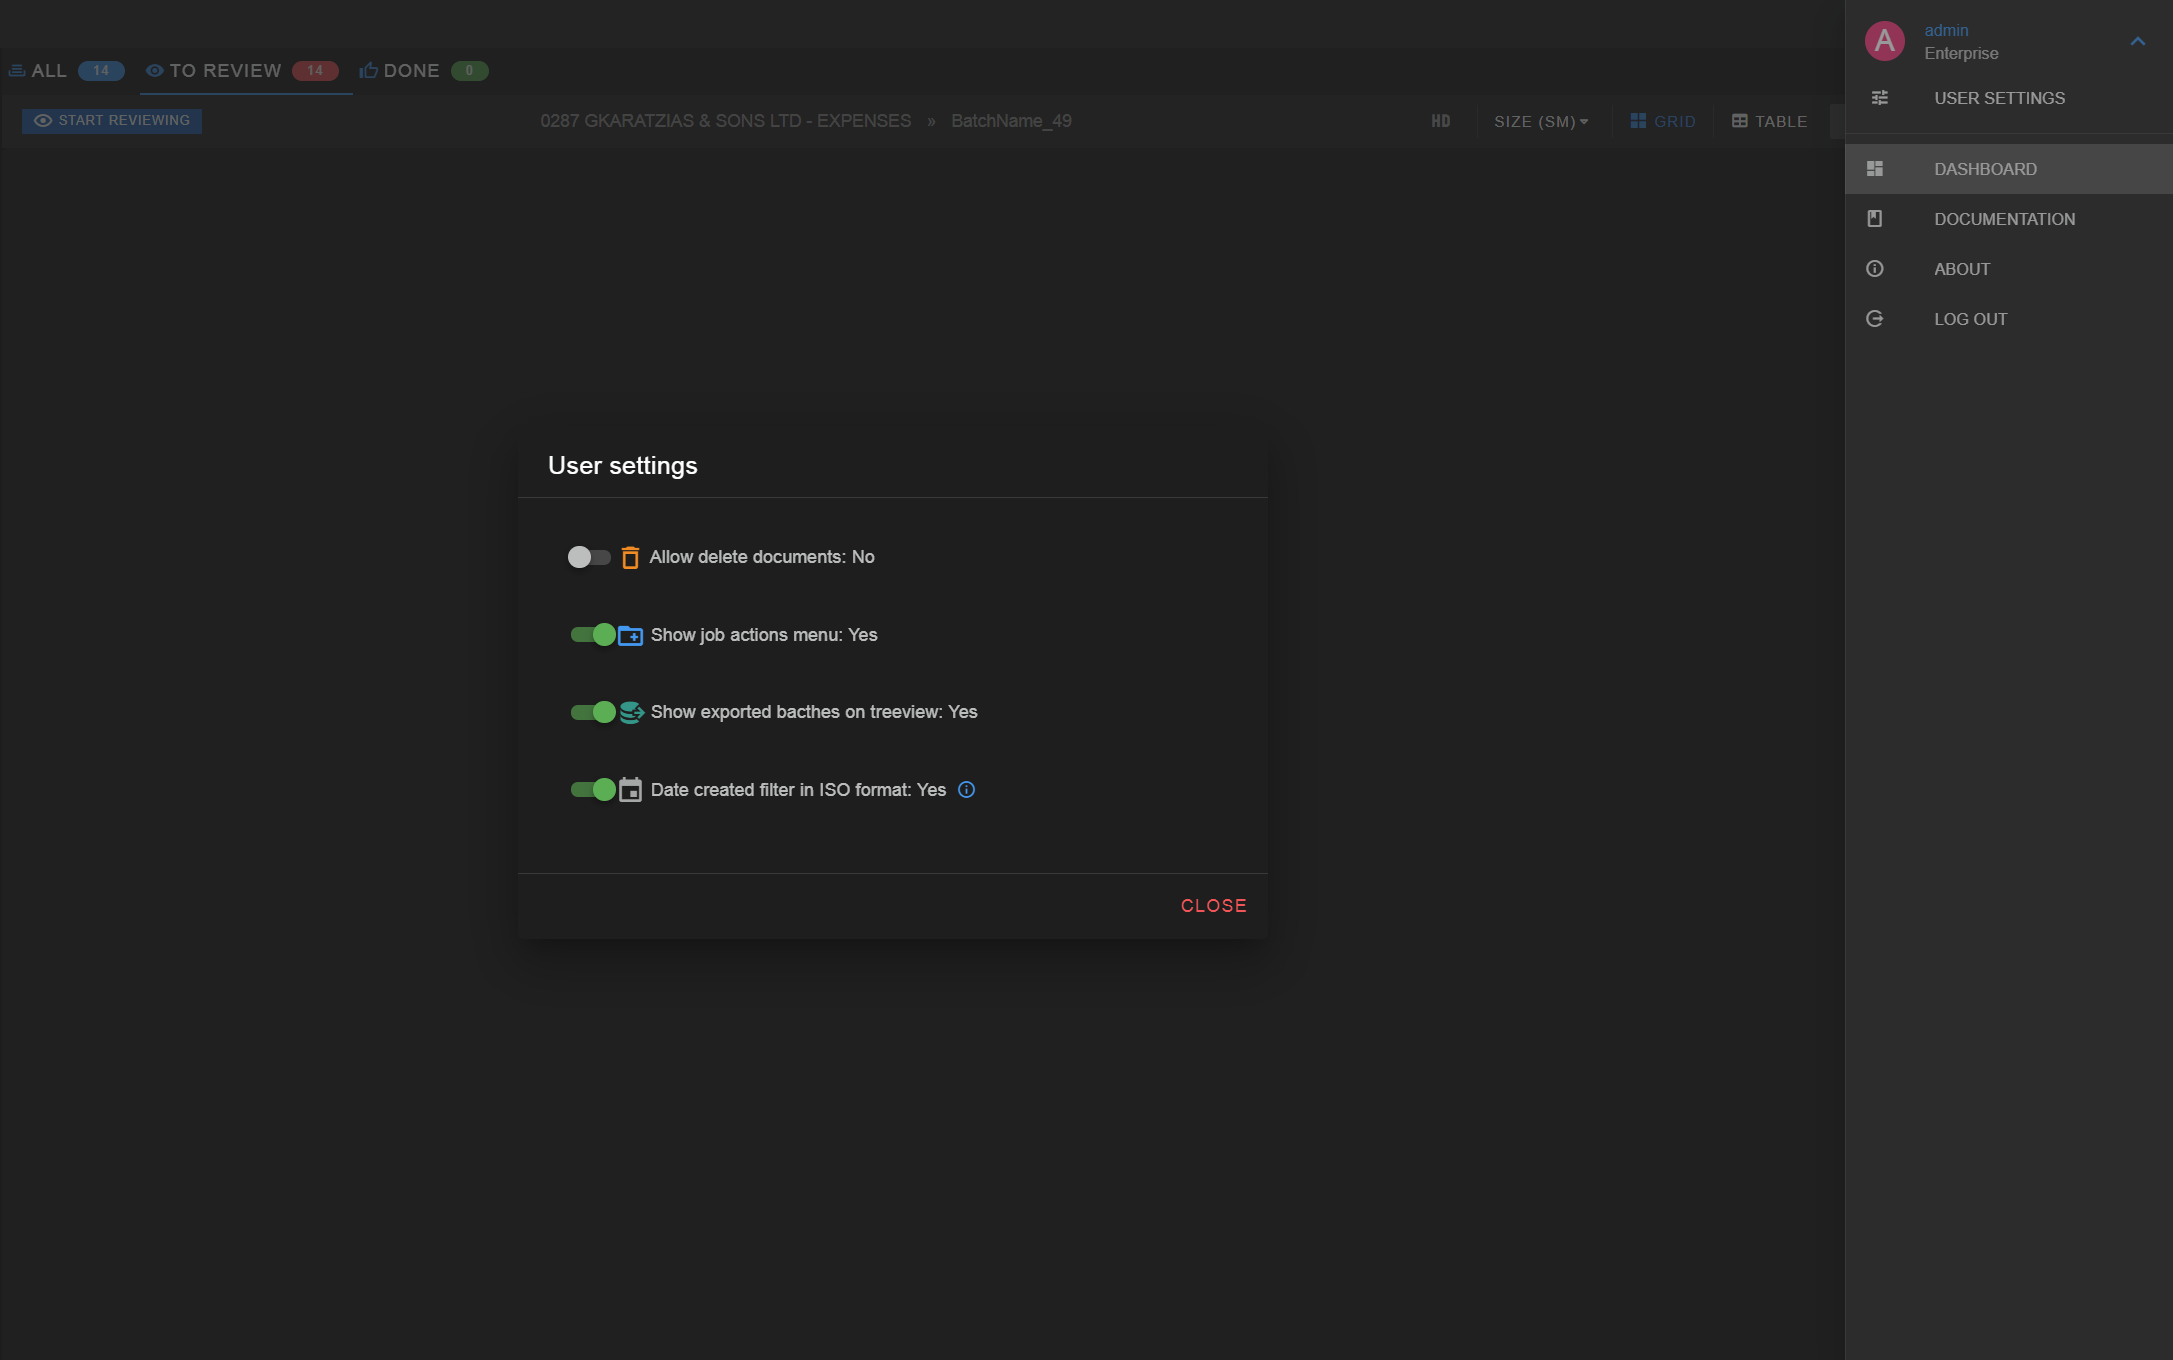
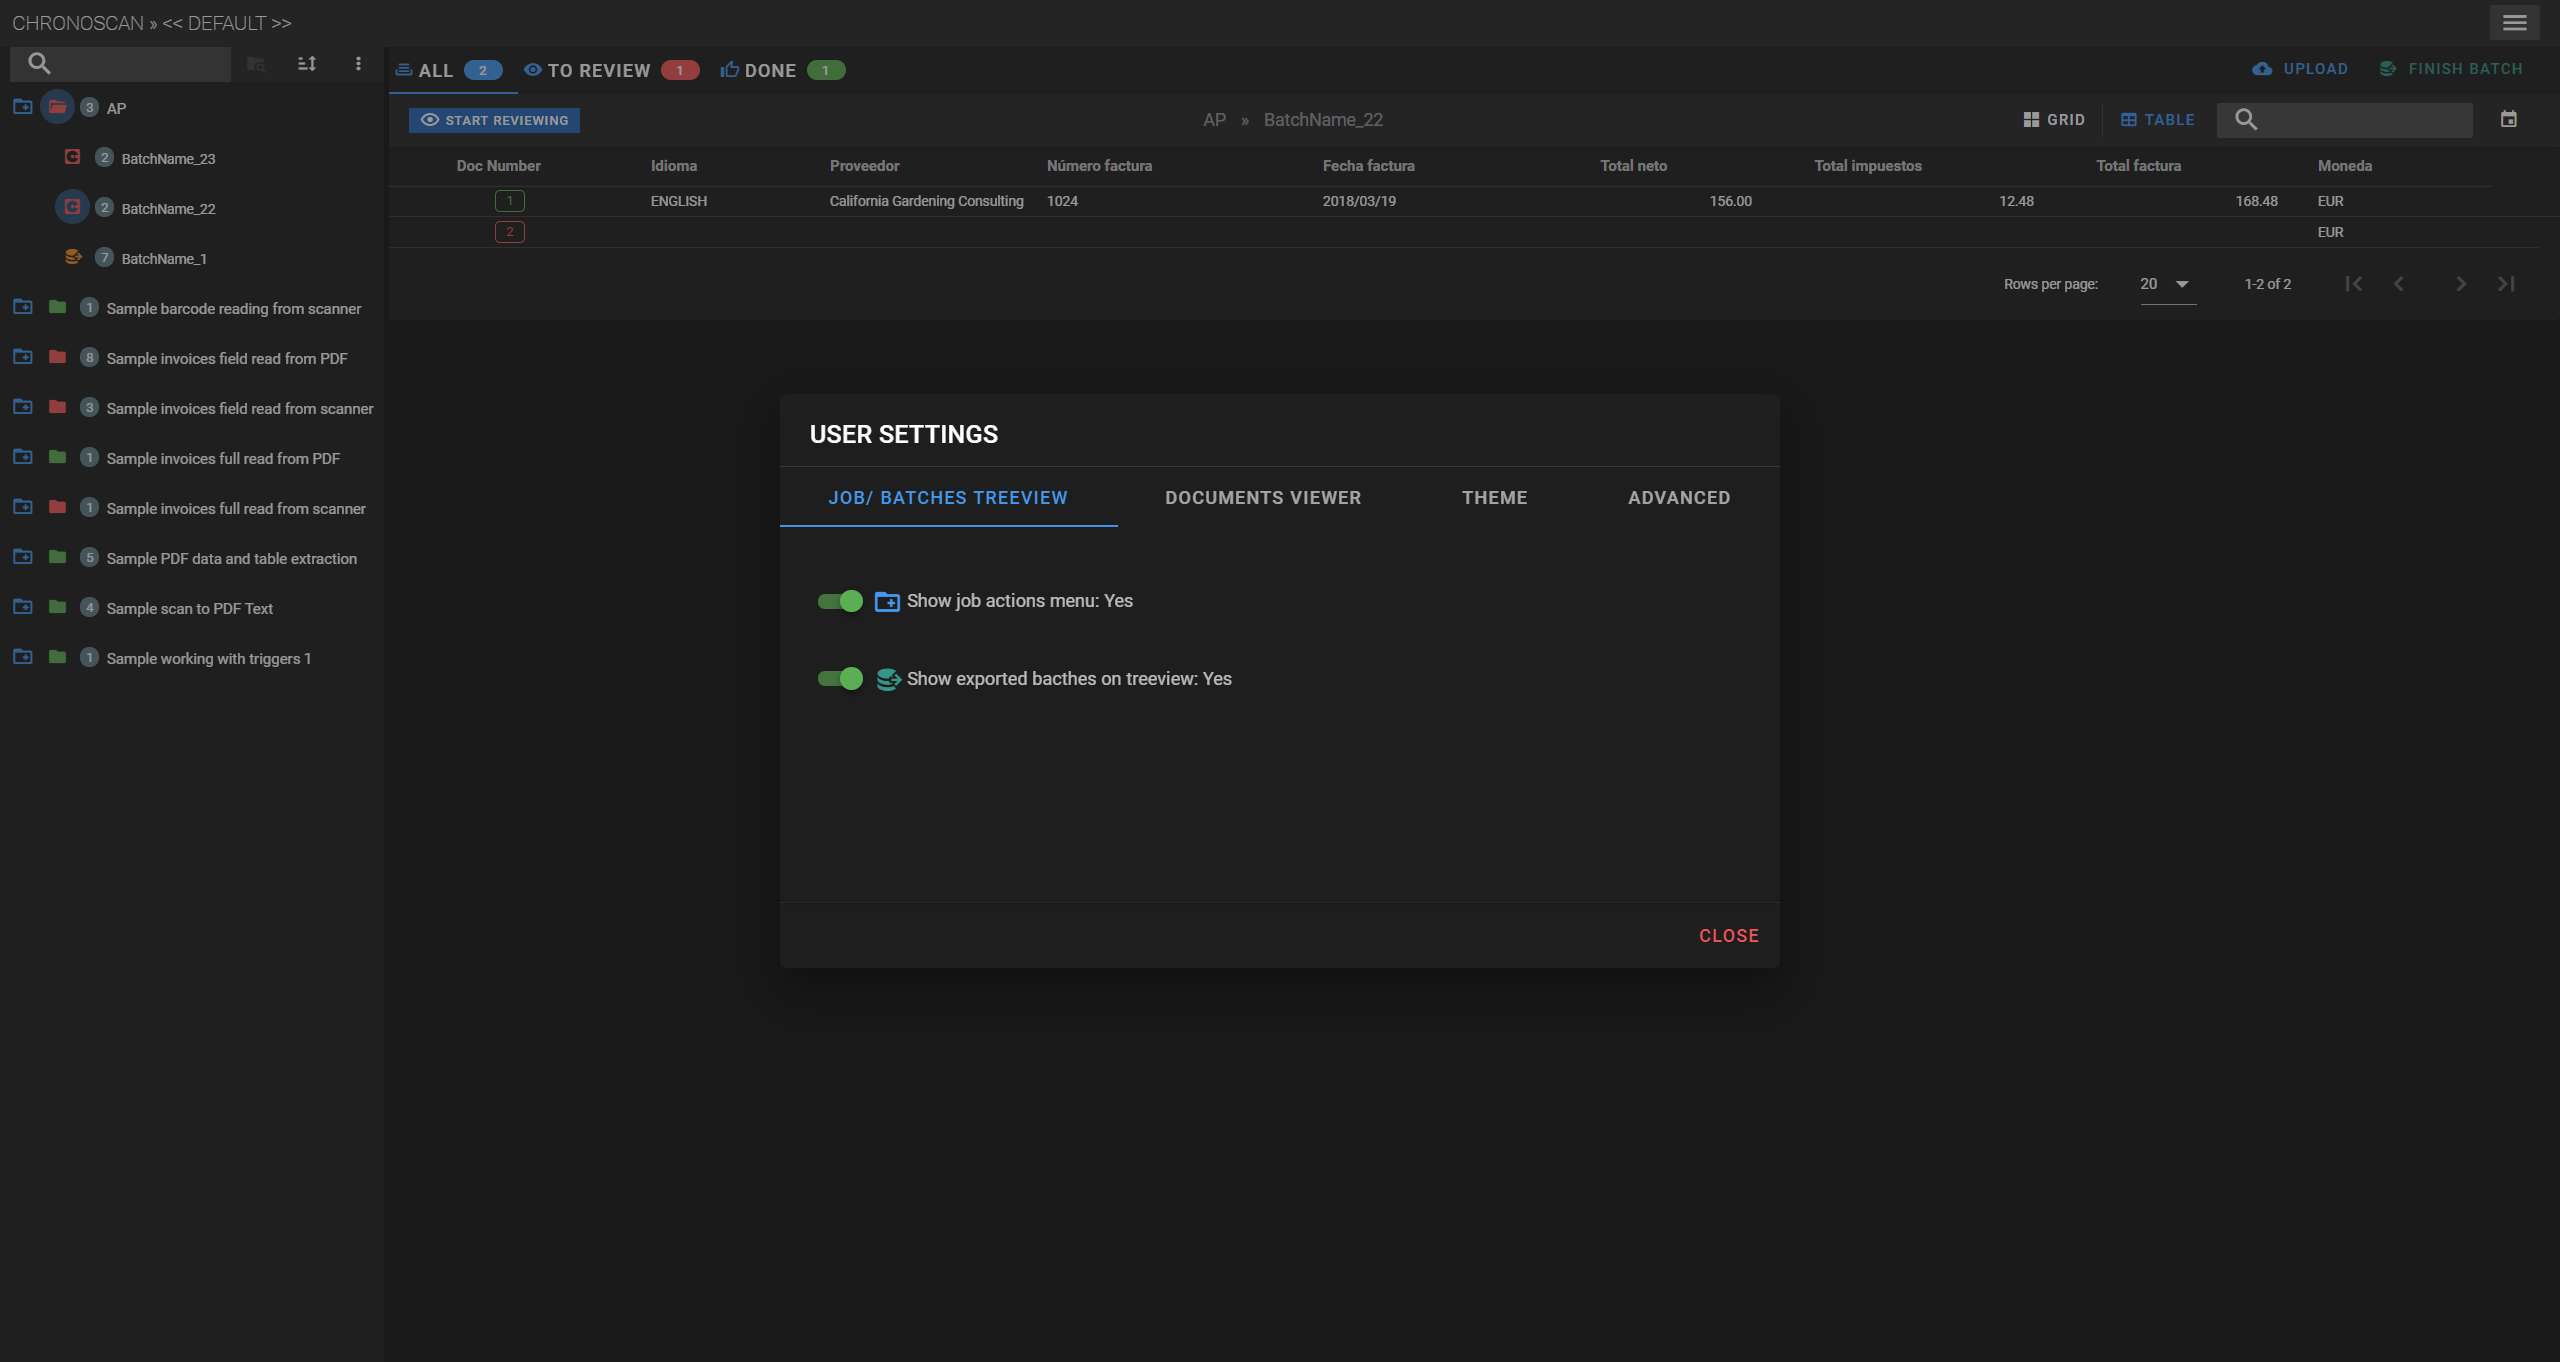
settings updated

diff --git a/documentation/chronolite/dashboard/user-menu/index.md b/documentation/chronolite/dashboard/user-menu/index.md
@@ -15,18 +15,35 @@ The user settings <i class='mdi mdi-tune'></i> provides some features for the ap
 ![User menu](./../../../../images/documentation/chronolite/dashboard/user_settings.PNG)
 <small class="img_caption">User settings</small>
 
-* <i class='mdi mdi-delete-outline' style="color: orange"></i> Allow delete documents
-    * Default value is: <span class="def_no">NO</span>
-    * It shows/ hides the delete document option on the dashboard <span class="in_magenta">In magenta</span>
+### Job/ Batches treeview
 * <i class='mdi mdi-folder-plus-outline chrono_blue'></i> Show job actions menu
     * Default value is: <span class="def_yes">YES</span>
-    * It shows/ hides the [job actions menu](#job-actions-menu) <span class="in_yellow">In yellow</span>  
+    * It shows/ hides the [job actions menu](#job-actions-menu)
 * <i class='mdi mdi-database-export teal'></i> Show exported batches on treeview
     * Default value is: <span  class="def_yes">YES</span>
-    * It shows/ hides the exported batches on the [job/ batches treeview](#job-batches-treeview) <span class="in_blue">In blue</span>
+    * It shows/ hides the exported batches on the [job/ batches treeview](#job-batches-treeview)
+
+### Documents viewer
+* <i class='mdi mdi-delete-outline' style="color: orange"></i> Allow delete documents
+    * Default value is: <span class="def_no">NO</span>
+    * It shows/ hides the delete document option on the dashboard
+
 * <i class='mdi mdi-calendar grey'></i> Date created filter in ISO format
     * Default value is: <span  class="def_yes">YES</span>
-    * In ISO date format weeks start on Mondays and end in Sundays.
+    * In ISO date format weeks start on Mondays and end in Sundays
 
-![User menu](./../../../../images/documentation/chronolite/dashboard/user_settings_exp.PNG)
-<small class="img_caption">User settings toggles</small>
+### Theme
+* <i class='mdi mdi-brightness-6 white'></i> Dark theme    
+    * Default value is: <span class="def_yes">YES</span>
+    * It changes application theme between light/ dark mode
+
+### Advanced
+* <i class='mdi mdi-cookie grey'></i> Manage local storage
+    * Default value is: <span class="def_no">NO</span>
+    * Allows to manage local storage.
+        * SHOW LOCAL STORAGE
+        * DELETE LOCAL STORAGE
+            * To delete local storage a password will be asked
+            * Password for deleting local storage is 0000
+            * When deleting local storage, saved features, loaded batches, filters, current unsaved work and session will be destroyed and the application will be restored.
+

diff --git a/documentation/chronolite/indexer/index.md b/documentation/chronolite/indexer/index.md
@@ -15,6 +15,6 @@ Its divided into two mayor components:
     * Document image
     * Image viewer menu
 
-![Indexer](./../../../images/documentation/chronolite/indexer/indexer.PNG)  
+![Indexer](./../../../../images/documentation/chronolite/indexer/indexer.PNG)  
 <small>Indexer <span class="in_magenta">form</span> and <span class="in_lightgreen">image viewer</span>.</small>
 
